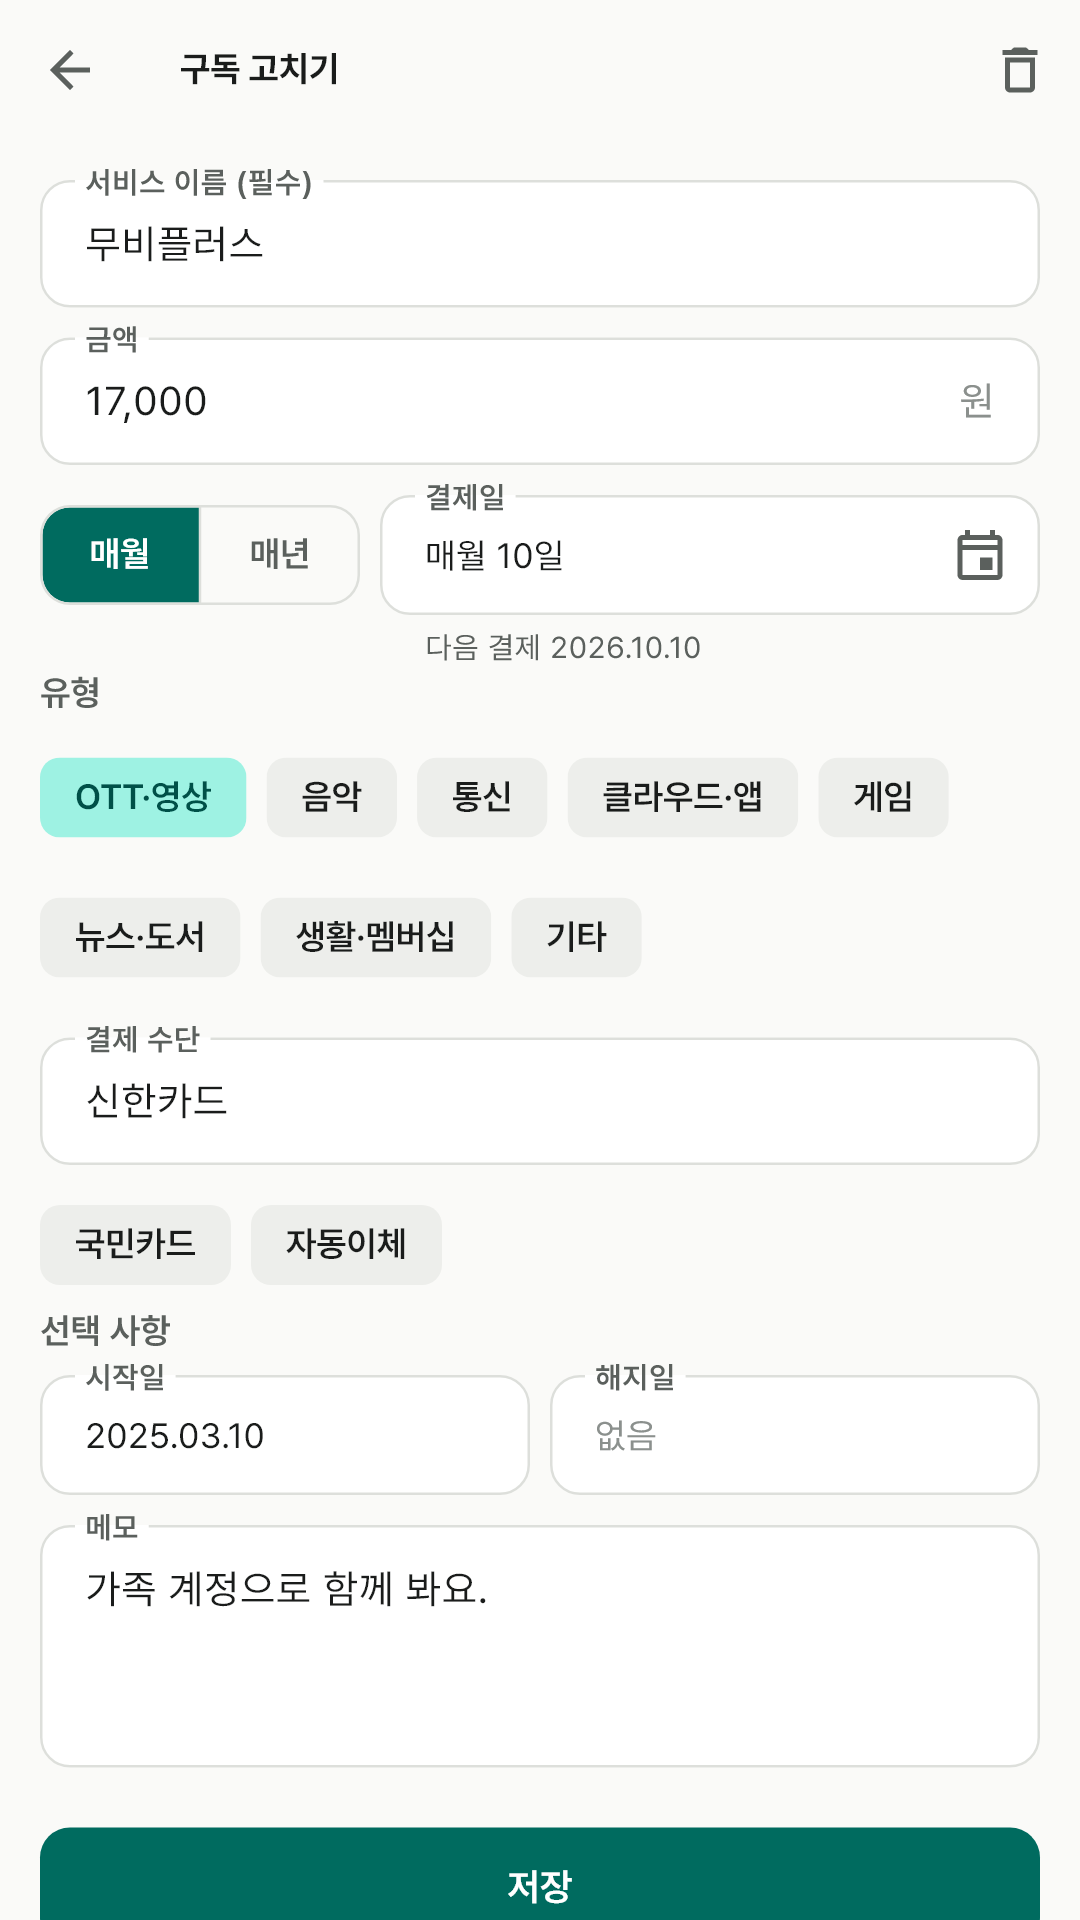
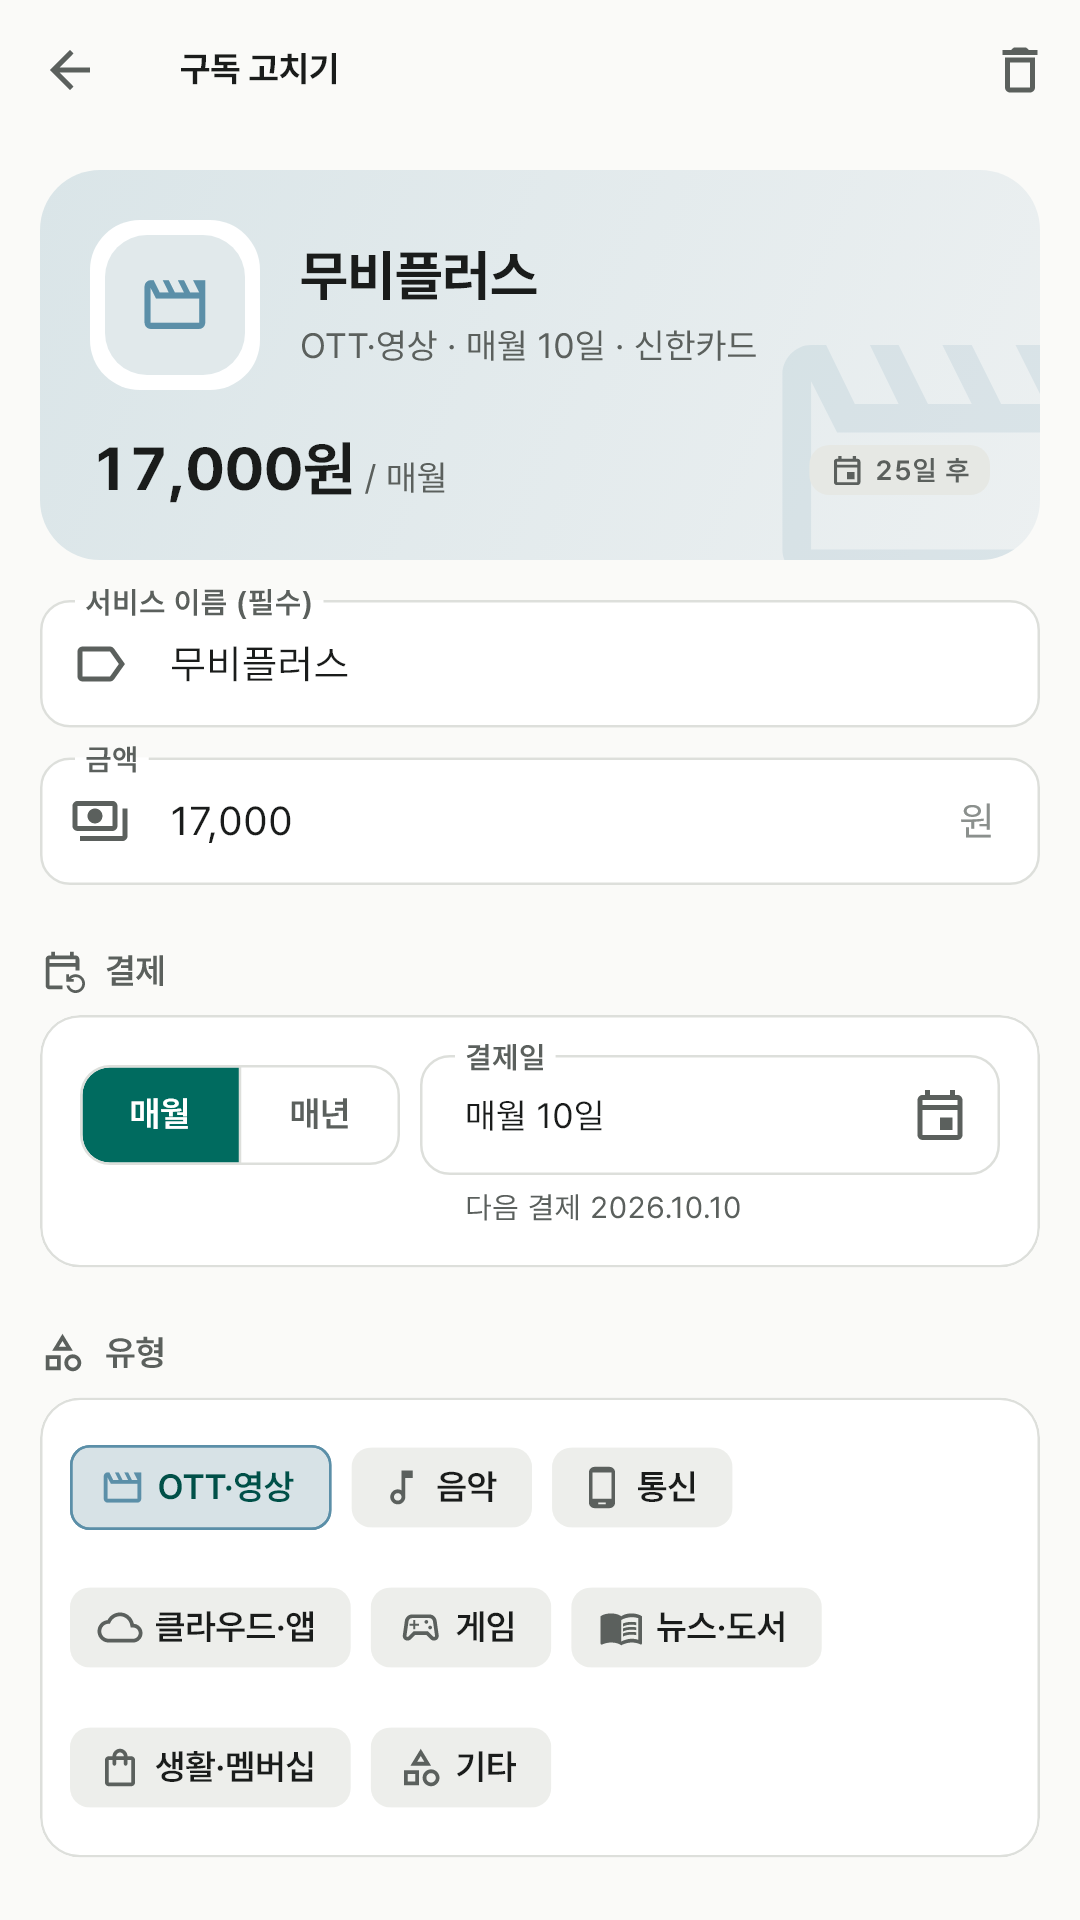
구독관리 소개 페이지: 개편한 화면 스크린샷과 문구 반영

diff --git a/my_subscription/index.html b/my_subscription/index.html
@@ -13,17 +13,17 @@
 <nav><a href="../"><picture><source srcset="../brand/logo_dark.png" media="(prefers-color-scheme:dark)"><img src="../brand/logo.png" alt="앱이소"></picture></a><a href="privacy.html">개인정보처리방침</a></nav>
 <section class="hero"><div><span class="status">준비 중 · Android</span><h1>매달 나가는 돈,<br>한눈에</h1><p class="lead">OTT와 음악, 통신 요금과 클라우드까지.<br>어디에 얼마를 내는지 적어 두고 다음 결제일을 챙겨요.</p><div class="facts"><span>가입 없이</span><span>광고 없이</span><span>오프라인으로</span></div></div><img class="icon" src="icon-512.png" alt="앱이소 구독관리 아이콘"></section>
 <section class="features">
-<article><h2>이번 달에 얼마가 나가나요</h2><p>이번 달에 실제로 결제되는 금액을 맨 위에서 확인해요. 매년 내는 구독은 12로 나눠 월 평균에 담아, 한 달에 얼마를 쓰는지 고르게 보여줘요.</p></article>
-<article><h2>다음 결제일이 가까운 순서로</h2><p>목록은 다음에 결제될 날짜가 빠른 것부터 놓여요. "3일 후"처럼 남은 날짜를 적어 두어 무엇이 곧 빠져나갈지 바로 알 수 있어요.</p></article>
-<article><h2>어디에 얼마를 쓰는지 그림으로</h2><p>유형별 비중을 도넛으로, 열두 달 흐름을 막대로 봐요. 월별과 연별을 바꿔 보고, 유형 대신 결제 수단으로 묶어 어느 카드에서 나가는지도 확인해요.</p></article>
+<article><h2>이번 달에 얼마가 나가나요</h2><p>이번 달에 실제로 결제되는 금액을 맨 위 면에서 크게 확인하고, 오늘까지 얼마나 나갔는지는 고리로 봐요. 매년 내는 구독은 12로 나눠 월 평균에 담아, 한 달에 얼마를 쓰는지 고르게 보여줘요.</p></article>
+<article><h2>다음 결제일이 가까운 순서로</h2><p>구독 카드는 다음에 결제될 날짜가 빠른 것부터 놓여요. "3일 후"처럼 남은 날짜를 적어 두고 오늘 결제되는 것은 색으로 강조해, 무엇이 곧 빠져나갈지 바로 알 수 있어요.</p></article>
+<article><h2>어디에 얼마를 쓰는지 그림으로</h2><p>유형별 비중을 도넛으로, 열두 달 흐름을 막대로 봐요. 지난달보다 얼마나 늘고 줄었는지도 한 줄로 알려줘요. 월별과 연별을 바꿔 보고, 유형 대신 결제 수단으로 묶어 어느 카드에서 나가는지도 확인해요.</p></article>
 <article><h2>적는 것은 이름뿐이에요</h2><p>결제 수단은 "신한카드"처럼 직접 붙이는 이름일 뿐이에요. 카드 번호도, 계좌 번호도, 비밀번호도 묻지 않고 저장하지 않아요.</p></article>
 </section>
 <h2>앱 안에서는 이렇게 보여요</h2>
 <section class="shots">
-<figure><img src="shots/01-home.png" alt="이번 달 결제액과 다음 결제일 순 구독 목록" loading="lazy"><figcaption>이번 달 결제와 월 평균을 먼저 봐요.</figcaption></figure>
+<figure><img src="shots/01-home.png" alt="이번 달 결제액과 나간 비율 고리, 다음 결제일 순 구독 카드" loading="lazy"><figcaption>이번 달 결제와 나간 비율을 먼저 봐요.</figcaption></figure>
 <figure><img src="shots/02-stats-month.png" alt="유형별 비중 도넛과 월별 결제 막대" loading="lazy"><figcaption>어디에 얼마를 쓰는지 그림으로.</figcaption></figure>
 <figure><img src="shots/03-stats-year.png" alt="한 해 전체의 유형별 결제 비중" loading="lazy"><figcaption>한 해를 통째로 돌아봐요.</figcaption></figure>
-<figure><img src="shots/04-editor.png" alt="이름과 금액, 결제 주기와 결제일을 적는 편집 화면" loading="lazy"><figcaption>결제 주기와 결제일을 정해요.</figcaption></figure>
+<figure><img src="shots/04-editor.png" alt="유형 색 미리보기 면 아래에 이름과 금액, 결제 주기와 결제일을 적는 편집 화면" loading="lazy"><figcaption>적는 대로 미리보기가 따라와요.</figcaption></figure>
 <figure><img src="shots/05-dark.png" alt="어두운 테마의 구독 목록" loading="lazy"><figcaption>어두운 화면도 편안하게.</figcaption></figure>
 </section>
 <p>화면의 구독은 기능을 설명하기 위한 예시예요. 앱에는 샘플 데이터가 들어 있지 않아요.</p>
